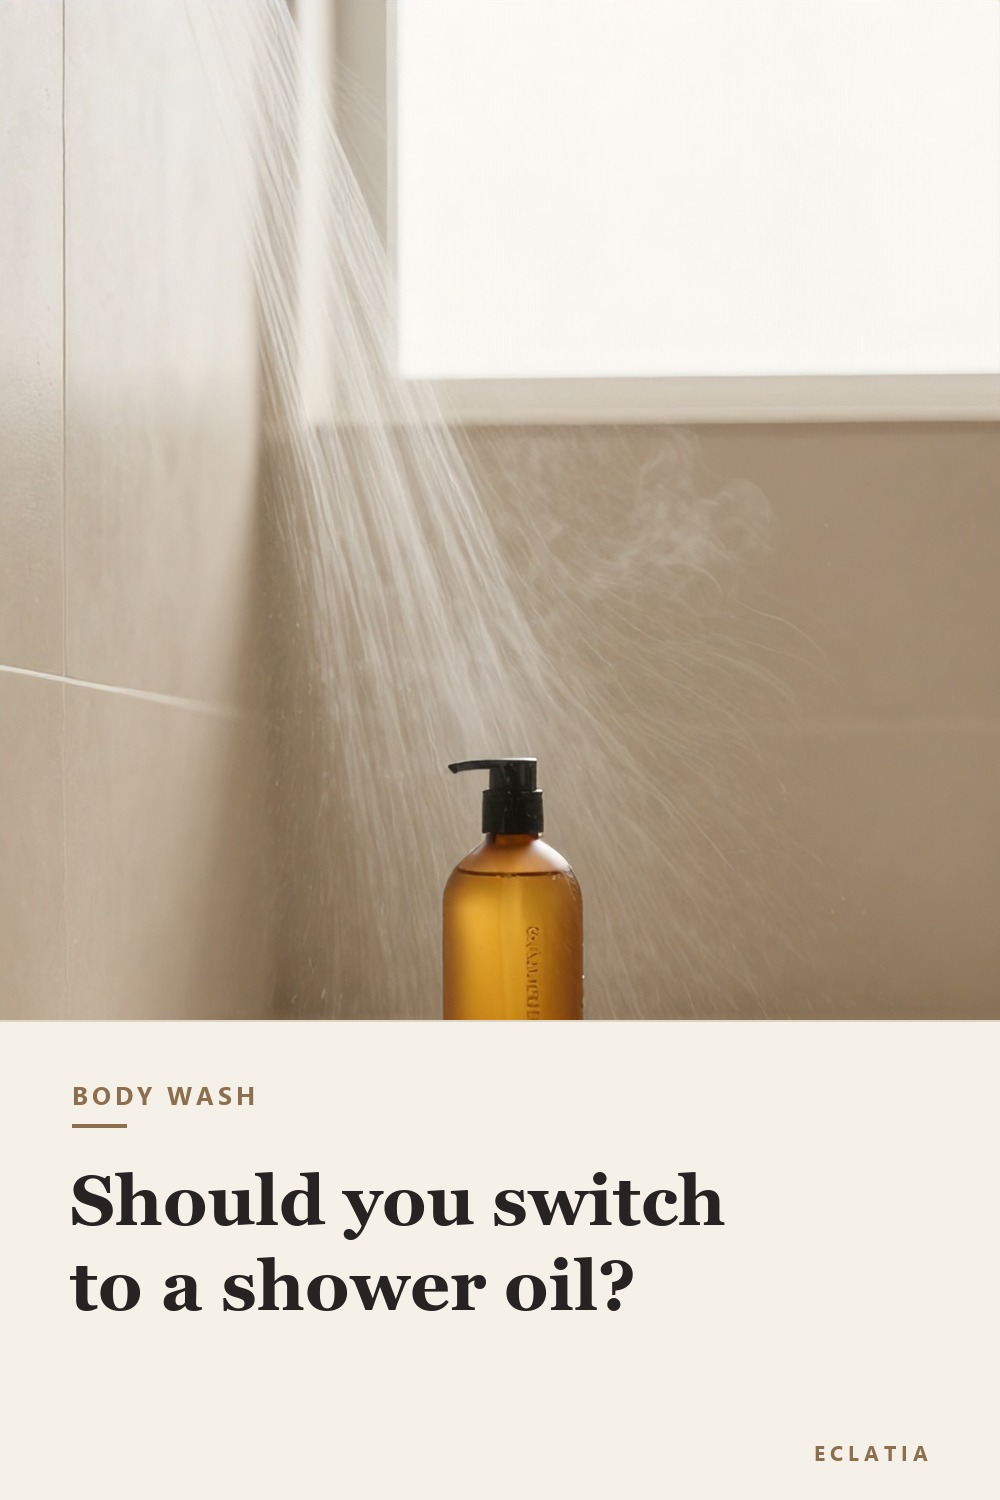
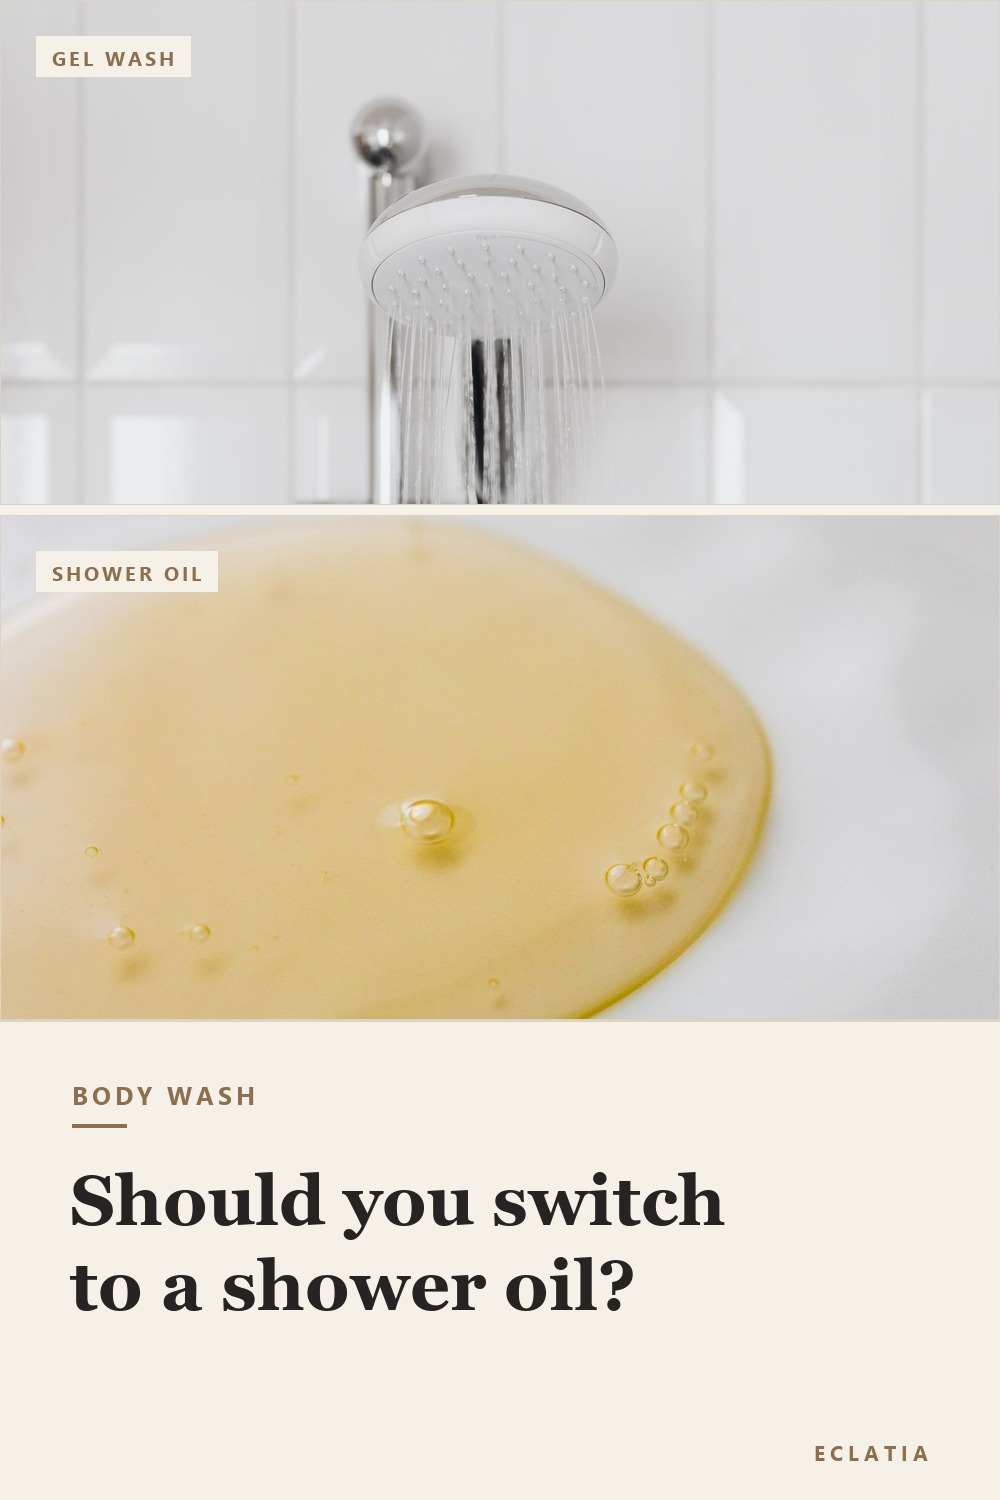
P07: nouveau visuel diptyque eau/huile (photos Pexels, aucune marque)

diff --git a/scripts/make_pins_p07.py b/scripts/make_pins_p07.py
@@ -1,0 +1,89 @@
+"""Compose le pin P07 (v2) : diptyque eau / huile + bandeau texte.
+
+Pourquoi un diptyque : le pin compare un gel douche classique a une huile de
+douche. Deux photos empilees (eau qui coule / huile doree) rendent la
+comparaison lisible en une seconde, sans aucune marque visible.
+
+Entree  : visuels/body-oil/base-P07-water.jpg  (Pexels 4194863, pommeau de douche)
+          visuels/body-oil/base-P07-oil.jpg    (Pexels 4465831, huile doree)
+Sortie  : visuels/body-oil/pin-P07.jpg + pin-P07.png (1000 x 1500)
+"""
+import os
+
+from PIL import Image, ImageDraw, ImageFont
+
+from make_pins_body_oil import ACCENT, CREAM, H, INK, LINE, SEGOE_B, W, fit_font, spaced
+
+BASE = os.path.join("docs", "contenus-a-valider", "visuels", "body-oil")
+PANEL_H = 480
+GAP = 10
+BAND_H = 505  # 505 * 2 + 10 = 1020 -> hauteur photo totale
+
+KICKER = "BODY WASH"
+LINES = ["Should you switch", "to a shower oil?"]
+LABELS = [
+    # (fichier, libelle, decalage vertical du recadrage en fraction de la hauteur)
+    ("base-P07-water.jpg", "GEL WASH", 0.10),
+    ("base-P07-oil.jpg", "SHOWER OIL", 0.50),
+]
+
+
+def crop_fill(img, w, h, top_frac=0.5):
+    r = max(w / img.width, h / img.height)
+    im = img.resize((round(img.width * r), round(img.height * r)), Image.LANCZOS)
+    left = (im.width - w) // 2
+    top = round((im.height - h) * top_frac)
+    top = max(0, min(top, im.height - h))
+    return im.crop((left, top, left + w, top + h))
+
+
+def chip(d, xy, text, font):
+    x, y = xy
+    tw = sum(d.textlength(c, font=font) + 3 for c in text) - 3
+    pad_x, pad_y = 16, 10
+    d.rectangle([x, y, x + tw + 2 * pad_x, y + font.size + 2 * pad_y], fill=CREAM)
+    spaced(d, (x + pad_x, y + pad_y - 2), text, font, ACCENT, 3)
+
+
+def build():
+    canvas = Image.new("RGB", (W, H), CREAM)
+    top = 0
+    for name, label, top_frac in LABELS:
+        photo = crop_fill(Image.open(os.path.join(BASE, name)).convert("RGB"), W, BAND_H, top_frac)
+        canvas.paste(photo, (0, top))
+        d = ImageDraw.Draw(canvas)
+        d.rectangle([0, top, W - 1, top + BAND_H - 1], outline=LINE, width=1)
+        chip(d, (36, top + 36), label, ImageFont.truetype(SEGOE_B, 20))
+        top += BAND_H + GAP
+
+    # bandeau texte
+    d = ImageDraw.Draw(canvas)
+    d.rectangle([0, H - PANEL_H, W, H], fill=CREAM)
+    d.rectangle([0, H - PANEL_H, W, H - PANEL_H + 1], fill=LINE)
+
+    x = 72
+    spaced(d, (x, H - PANEL_H + 58), KICKER, ImageFont.truetype(SEGOE_B, 25), ACCENT, 4)
+    d.rectangle([x, H - PANEL_H + 104, x + 54, H - PANEL_H + 107], fill=ACCENT)
+
+    f, size = fit_font(d, LINES, W - 2 * x)
+    lh = round(size * 1.22)
+    y = H - PANEL_H + 140
+    for line in LINES:
+        d.text((x - 2, y), line, font=f, fill=INK)
+        y += lh
+
+    fs = ImageFont.truetype(SEGOE_B, 21)
+    label = "ECLATIA"
+    tw = sum(d.textlength(c, font=fs) + 5 for c in label) - 5
+    spaced(d, (W - x - tw, H - 62), label, fs, ACCENT, 5)
+
+    jpg = os.path.join(BASE, "pin-P07.jpg")
+    canvas.save(jpg, quality=92, optimize=True)
+    png = os.path.join(BASE, "pin-P07.png")
+    canvas.save(png, optimize=True)
+    print("ok", jpg, canvas.size, os.path.getsize(jpg) // 1024, "Ko")
+    print("ok", png, os.path.getsize(png) // 1024, "Ko")
+
+
+if __name__ == "__main__":
+    build()

diff --git a/docs/contenus-a-valider/pins/P07-a-publier.md b/docs/contenus-a-valider/pins/P07-a-publier.md
@@ -9,13 +9,13 @@
 
 | Champ | Valeur |
 |---|---|
-| **Image** | `docs/contenus-a-valider/visuels/body-oil/pin-P07.jpg` — 1000 × 1500 (2:3) |
+| **Image** | `docs/contenus-a-valider/visuels/body-oil/pin-P07.jpg` — 1000 × 1500 (2:3) · copie PNG : `pin-P07.png` |
 | **Titre** | `Oil Body Wash vs Body Wash - Who Should Switch?` |
 | **Description** | `A classic body wash cleans by removing sebum. A shower oil cleans while sparing more of it. Not a premium version of the same product: a different trade-off, with less lather and a slippery floor. Who should switch, and who should not. #bodywash #showeroil #dryskin` |
 | **Lien** | `https://guide-beaute.pages.dev/comparisons/oil-body-wash-vs-body-wash/?utm_source=Pinterest&utm_medium=organic&utm_campaign=P07` |
 | **Tableau** | `Body Care & Dry Skin` |
 | **Tagged topics** | Body Care · Dry Skin · Beauty Tips · Skincare |
-| **Alt** | `An amber pump bottle on the edge of a bathtub, with a shower running behind it.` |
+| **Alt** | `A chrome shower head running against white tiles, above a close-up of a pool of golden shower oil.` |
 
 ---
 
@@ -33,6 +33,17 @@
 | Test / avis inventé | ❌ aucun |
 | Marque sur le visuel | ❌ aucun logo Amazon |
 | Page déjà pinnée | ❌ jamais |
+
+### Le visuel (v2, diptyque)
+
+Deux photos Pexels empilées, aucune marque visible, aucun produit identifiable :
+
+- haut — pommeau de douche, eau qui coule (Pexels 4194863) → légende « GEL WASH »
+- bas — macro d'huile dorée (Pexels 4465831) → légende « SHOWER OIL »
+- bandeau bas inchangé : « BODY WASH / Should you switch to a shower oil? »
+
+Script : `scripts/make_pins_p07.py` (sources `base-P07-water.jpg`, `base-P07-oil.jpg`).
+L'ancienne version (flacon ambré sous la douche) est conservée en `base-P07.jpg` mais n'est plus utilisée.
 
 ---
 
